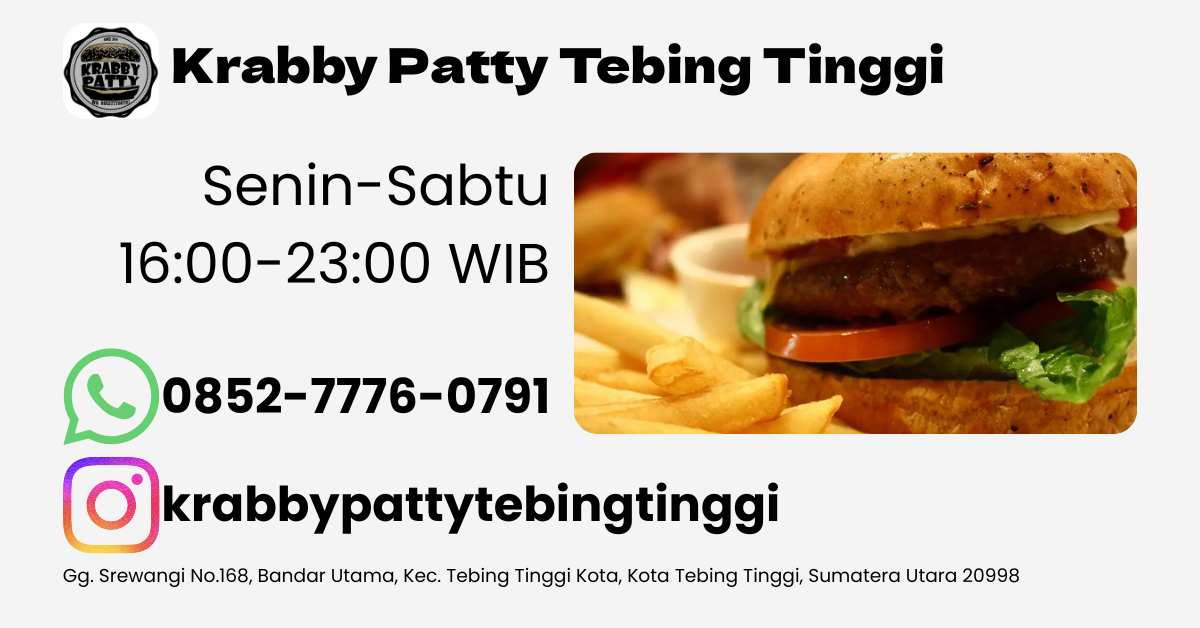
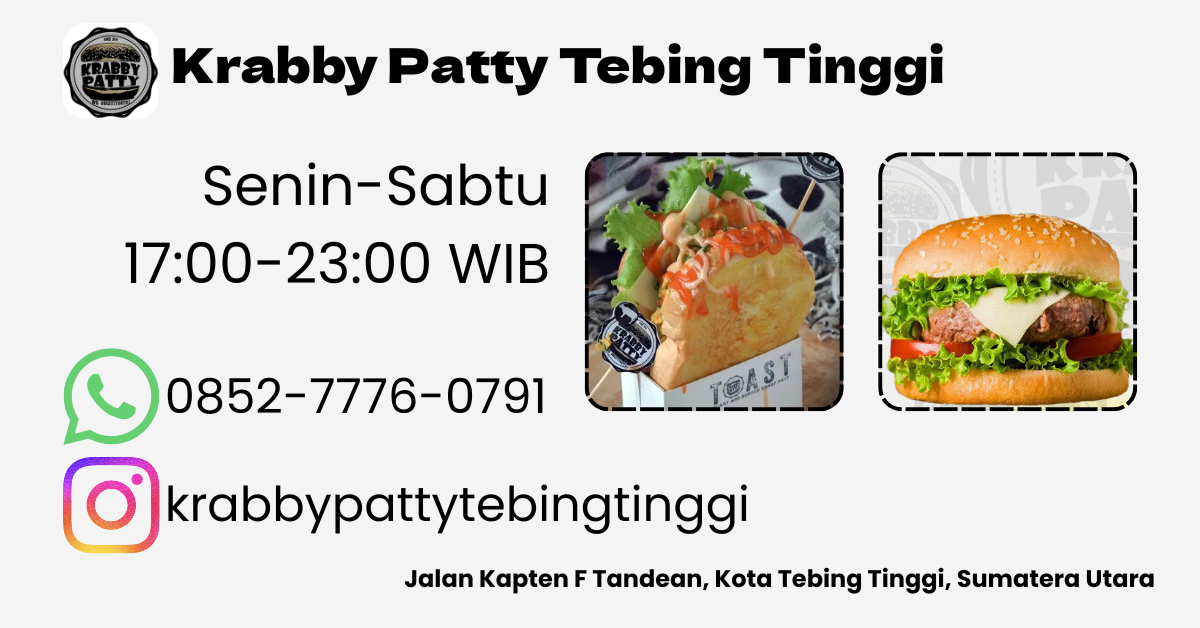
chore: update site image

diff --git a/index.html b/index.html
@@ -7,7 +7,7 @@
     <title>Krabby Patty Tebing Tinggi</title>
     <meta
       property="description"
-      content="HALAL FOOD. Burger dan toast 100% fresh."
+      content="HALAL FOOD. Senin-Sabtu, 17:00-23:00 WIB. Kota Tebing Tinggi, Sumatera Utara"
     />
 
     <meta property="twitter:image" content="/summary_large_image.png" />
@@ -15,7 +15,7 @@
     <meta property="twitter:title" content="Krabby Patty Tebing Tinggi" />
     <meta
       property="twitter:description"
-      content="HALAL FOOD. Burger dan toast 100% fresh."
+      content="HALAL FOOD. Senin-Sabtu, 17:00-23:00 WIB. Kota Tebing Tinggi, Sumatera Utara"
     />
 
     <meta property="og:title" content="Krabby Patty Tebing Tinggi" />
@@ -23,7 +23,7 @@
     <meta property="og:site_name" content="Krabby Patty Tebing Tinggi" />
     <meta
       property="og:description"
-      content="HALAL FOOD. Burger dan toast 100% fresh."
+      content="HALAL FOOD. Senin-Sabtu, 17:00-23:00 WIB. Kota Tebing Tinggi, Sumatera Utara"
     />
     <meta
       property="og:url"
